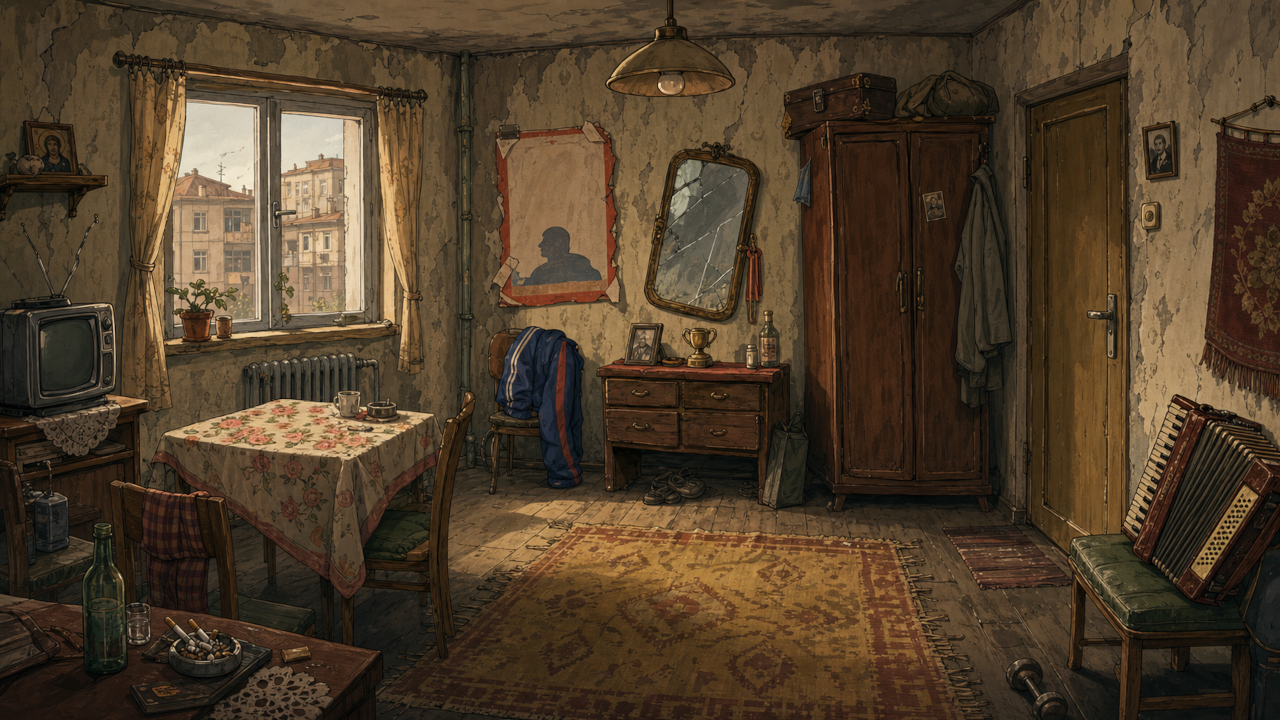
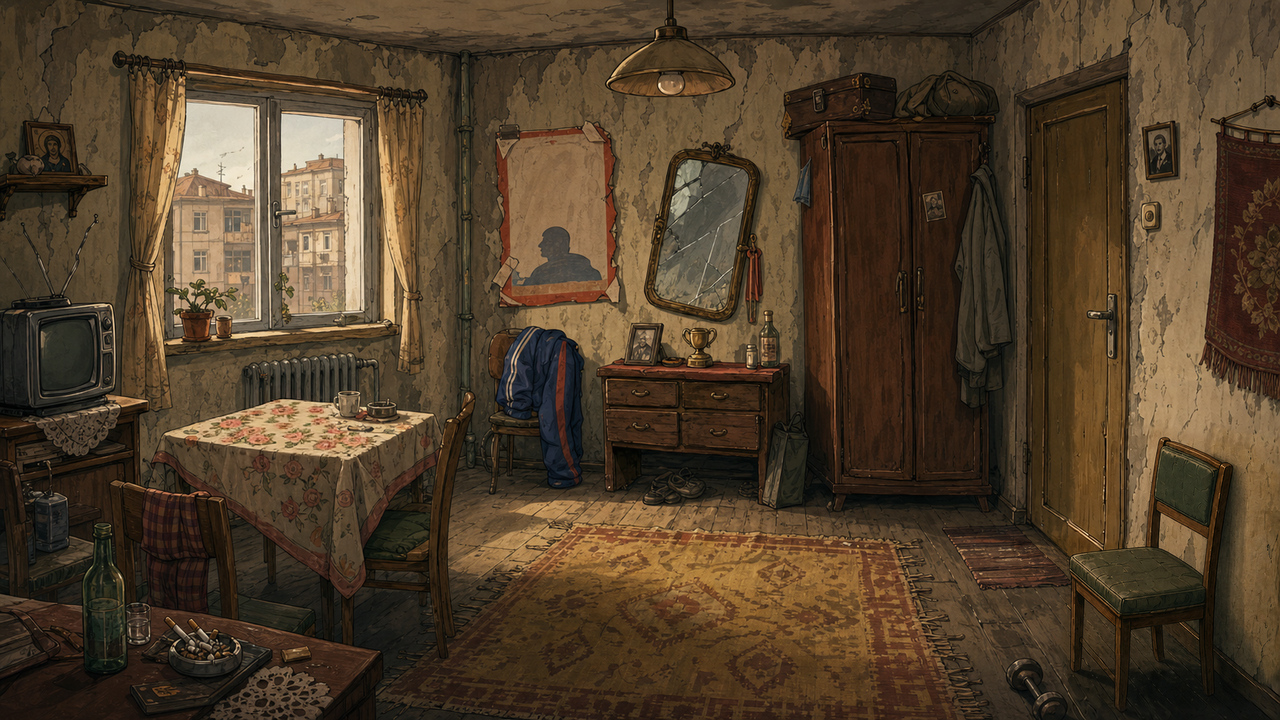
feat: make apartment accordion a removable scene layer

Changed region(s): [[0.8125, 0.55, 1.0, 1.0]]

diff --git a/test/engine.test.js b/test/engine.test.js
@@ -37,6 +37,7 @@ test("animation asset discovery includes every raster character slot without man
 
 test("scene preload discovery includes action-timed and persistent raster layers", () => {
   const paths = imageAssetPaths(assetManifest.scenes["scene.chapter1.apartment"]);
+  assert.ok(paths.includes(assetManifest.scenes["scene.chapter1.apartment"].accordionOnChair));
   assert.ok(paths.includes(assetManifest.scenes["scene.chapter1.apartment"].windowOpenBack));
   assert.ok(paths.includes(assetManifest.scenes["scene.chapter1.apartment"].windowOpen));
 });
@@ -162,6 +163,12 @@ test("apartment uses a raster walk mask for walkable floor", () => {
     && Number.isFinite(layer.top)
     && Number.isFinite(layer.left)
     && layer.hiddenWhenItemOwned === "item.unpaid_bills"));
+  assert.ok(scene.foregroundLayers.some((layer) => layer.id === "layer.apartment.accordion_on_chair"
+    && layer.asset === "accordionOnChair"
+    && layer.zIndex === 0
+    && layer.top === 399
+    && layer.left === 1064
+    && layer.hiddenWhenItemOwned === "item.accordion"));
   assert.ok(scene.foregroundLayers.some((layer) => layer.id === "layer.apartment.window_open"
     && layer.asset === "windowOpen"
     && layer.zIndex === 100
@@ -525,8 +532,11 @@ test("apartment accordion is collectible through the generic take flow", () => {
   game.save = () => { saves += 1; };
 
   assert.equal(accordion.takeItemId, "item.accordion");
+  assert.equal(accordion.hiddenWhenItemOwned, "item.accordion");
+  assert.equal(game.targetAvailable(accordion), true);
   game.takeTarget(accordion);
   assert.equal(owned.has("item.accordion"), true);
+  assert.equal(game.targetAvailable(accordion), false);
   assert.equal(saves, 1);
   game.takeTarget(accordion);
   assert.equal(owned.size, 1);
@@ -574,11 +584,27 @@ test("stateful scene layers stay hidden until their save flag is set", () => {
 test("collectible scene layers hide as soon as their item is owned", () => {
   const renderer = Object.create(Renderer.prototype);
   const owned = new Set();
-  const layer = { hiddenWhenItemOwned: "item.unpaid_bills" };
+  const scene = chapter1.scenes.find((candidate) => candidate.id === "scene.chapter1.apartment");
+  const layer = scene.foregroundLayers.find((candidate) => candidate.id === "layer.apartment.accordion_on_chair");
   renderer.game = { state: { flags: {} }, inventory: { has: (itemId) => owned.has(itemId) } };
   assert.equal(renderer.sceneLayerVisible(layer), true);
-  owned.add("item.unpaid_bills");
+  owned.add("item.accordion");
   assert.equal(renderer.sceneLayerVisible(layer), false);
+});
+
+test("a saved accordion keeps its Apartment layer and hotspot unavailable after load", () => {
+  const storage = new MemoryStorage({ test: JSON.stringify({ inventory: ["item.accordion"] }) });
+  const state = new SaveSystem(storage, "test").load();
+  const scene = chapter1.scenes.find((candidate) => candidate.id === "scene.chapter1.apartment");
+  const layer = scene.foregroundLayers.find((candidate) => candidate.id === "layer.apartment.accordion_on_chair");
+  const accordion = scene.interactables.find((candidate) => candidate.id === "hotspot.apartment.accordion");
+  const renderer = Object.create(Renderer.prototype);
+  const game = Object.create(Game.prototype);
+  const inventory = { has: (itemId) => state.inventory.includes(itemId) };
+  renderer.game = { state, inventory };
+  game.inventory = inventory;
+  assert.equal(renderer.sceneLayerVisible(layer), false);
+  assert.equal(game.targetAvailable(accordion), false);
 });
 
 test("action-timed scene layers appear on their configured animation frame only", () => {

diff --git a/src/content/art/assetManifest.js b/src/content/art/assetManifest.js
@@ -9,6 +9,7 @@ export const assetManifest = {
       foreground: "assets/chapter1/scenes/apartment/foreground.webp",
       foregroundTable: "assets/chapter1/scenes/apartment/foreground-table.png",
       billsOnTable: "assets/chapter1/scenes/apartment/bills-on-table.png",
+      accordionOnChair: "assets/chapter1/scenes/apartment/accordion-on-chair.png",
       windowOpen: "assets/chapter1/scenes/apartment/window-open.png",
       windowOpenBack: "assets/chapter1/scenes/apartment/window-open-0.png",
       geometry: "assets/chapter1/scenes/apartment/scene.geometry.json"

diff --git a/src/content/chapter1/sceneLayers.generated.js b/src/content/chapter1/sceneLayers.generated.js
@@ -19,6 +19,14 @@ export const sceneLayerGeometry = {
         "hiddenWhenItemOwned": "item.unpaid_bills"
       },
       {
+        "id": "layer.apartment.accordion_on_chair",
+        "asset": "accordionOnChair",
+        "zIndex": 0,
+        "top": 399,
+        "left": 1064,
+        "hiddenWhenItemOwned": "item.accordion"
+      },
+      {
         "id": "layer.apartment.window_open_back",
         "asset": "windowOpenBack",
         "zIndex": 100,

diff --git a/src/content/chapter1/scenes.js b/src/content/chapter1/scenes.js
@@ -55,7 +55,8 @@ const rawScenes = [
         nameKey: "item.accordion.name",
         rect: { x: 1120, y: 375, w: 150, h: 190 },
         lookKey: "look.apartment.accordion",
-        takeItemId: "item.accordion"
+        takeItemId: "item.accordion",
+        hiddenWhenItemOwned: "item.accordion"
       },
       {
         id: "hotspot.apartment.unpaid_bills",
